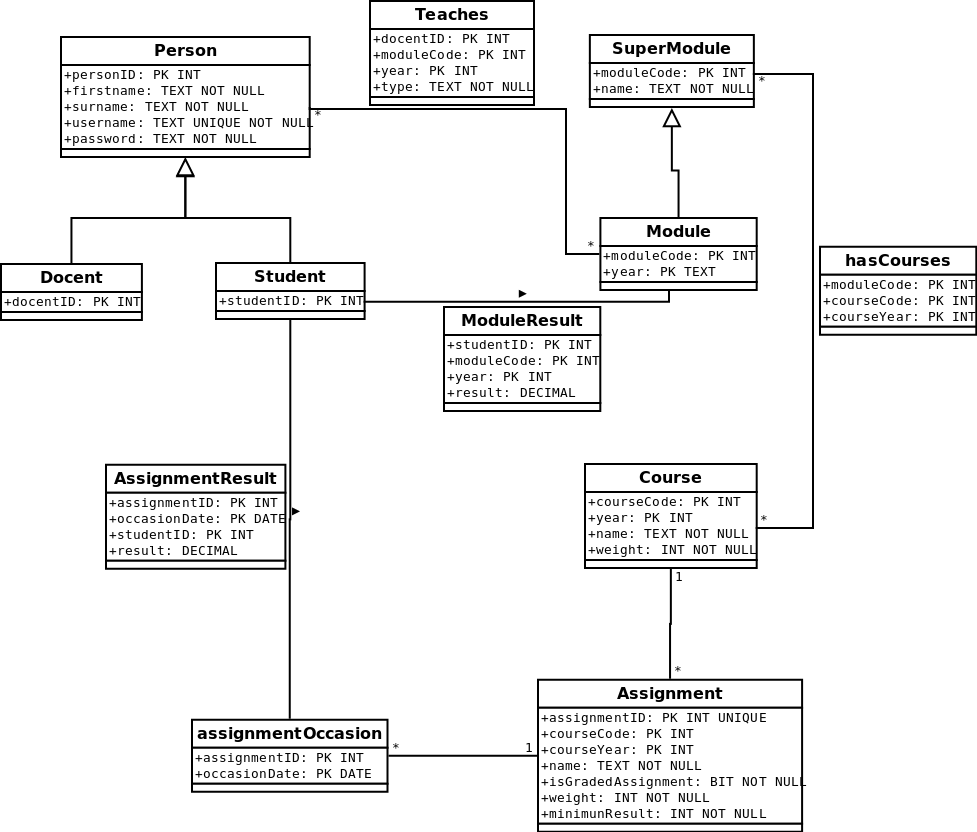
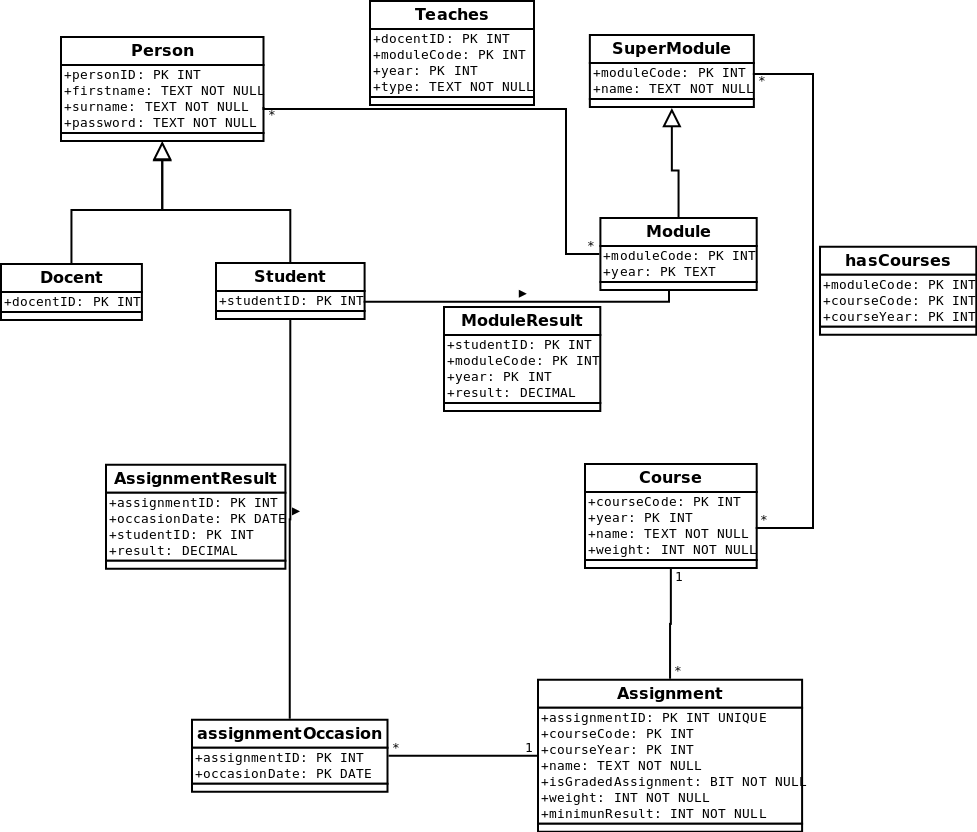
SQL Diagram weer aangepast: username is verwijderd bij Person

diff --git a/gradeManager/src/main/java/nl/utwente/di/gradeManager/pages/Overzicht.java b/gradeManager/src/main/java/nl/utwente/di/gradeManager/pages/Overzicht.java
@@ -23,7 +23,15 @@ public class Overzicht {
 					Statement st = conn.createStatement();
 					st.execute("set search_path to 'TESTi'");
 					ResultSet rs = st.executeQuery(
-						"SELECT firstname FROM \"Person\" p1, \"Student\" s1 WHERE s1.studentID = p1.PersonID "
+						"SELECT firstname, c1.name FROM \"Person\" p1, \"Student\" s1, \"ModuleResult\" mr1, \"Module\" m1, \"SuperModule\" sm1, \"hasCourses\" hc1, \"Course\" c1 WHERE "
+						+ "s1.studentID = p1.personID AND "
+						+ "s1.studentID = mr1.studentID AND "
+						+ "m1.moduleCode = mr1.ModuleCode AND "
+						+ "m1.year = mr1.year AND "
+						+ "sm1.moduleCode = hc1.moduleCode AND "
+						+ "hc1.courseCode = c1.courseCode AND "
+						+ "hc1.courseYear = c1.Year"
+						
 							);
 					
 					int i=1;					
